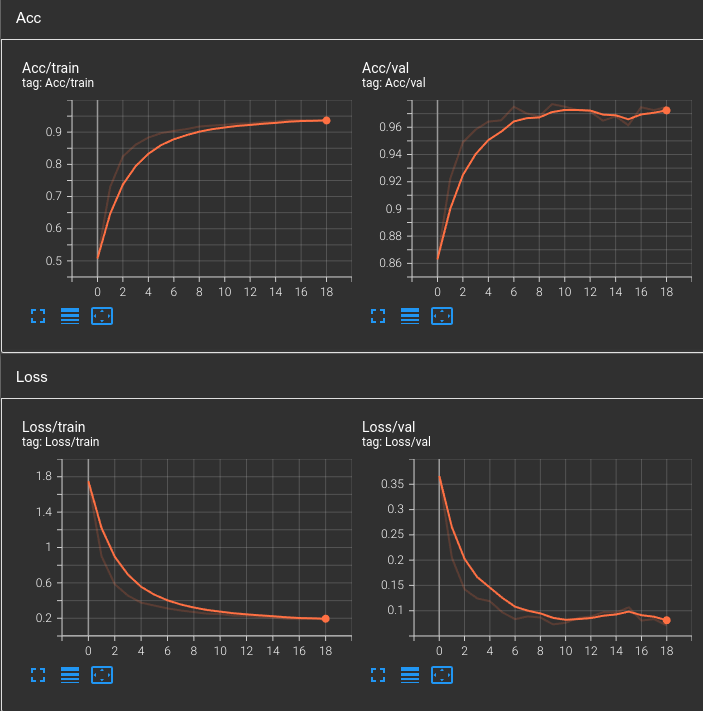
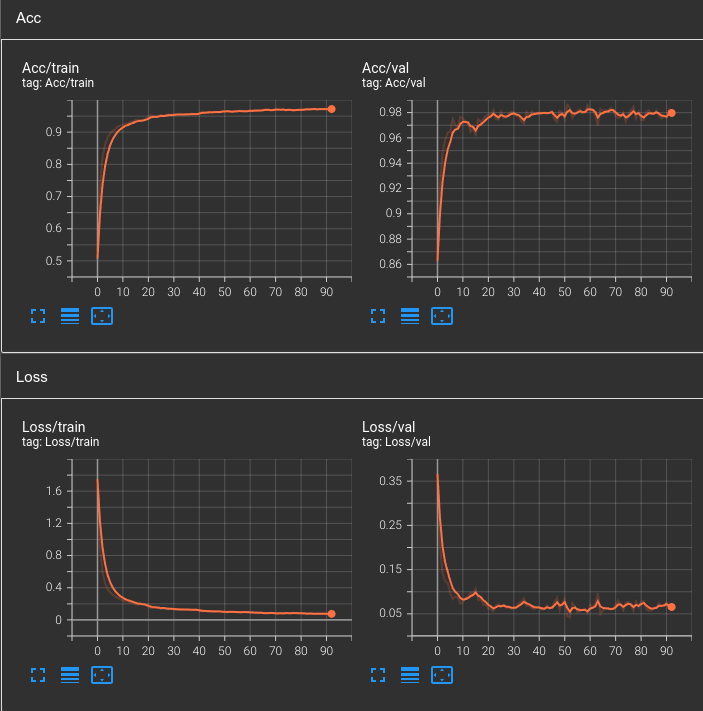
Added dataset images. updated omniglot results

diff --git a/README.md b/README.md
@@ -32,14 +32,17 @@ We used 3 main classification datasets:
   - total: 60,000
   - splits: 64 train, 16 val, 20 test (according to Vinyals et al)
   - Used in paper
+  - ![](docs/images/mini_imagenet_dataset.png)
 - **omniglot**: a collection of 1623 classes of handwritted characters. Each image is then rotated 3 more times by 90 degrees.
   - total: 32460 real, plus 4 rotations per image
   - splits: 1032 train, 172 val, 464 test (according to Vinyals et al)
   - Used in paper
+  - ![](docs/images/omniglot_dataset.jpg)
 - **flowers102**: a collection of 102 real-world flowers classes as rgb images.
   - total: 32460 real, plus 4 rotations per image
   - splits: 64 train, 16 val, 22 test (random seed for splits)
   - **NOT** Used in paper
+  - ![](docs/images/flowers102_dataset.png)
 </details>
 
 <details open>
@@ -76,7 +79,7 @@ All of these uses **epochs=200** and **iterations_per_epoch=100**.
 | Dataset       | Paper res<br><sup>(Acc) | Our res<br><sup>(Acc)                                                                                                  | Images<br><sup>(shape) | Prototype<br><sup>(shape) | Duration     |
 |---------------|-------------------------|------------------------------------------------------------------------------------------------------------------------|------------------------|---------------------------|--------------|
 | mini_imagenet | 68.20                   | [65.24](https://github.com/fabian57fabian/fewshot-learning-prototypical-networks/results/mini_imagenet/train_5way.png) | (84, 84, 3)            | (batch, 1600)             | cpu / 13h20m |
-| omniglot      | 98.80                   | [97.69](https://github.com/fabian57fabian/fewshot-learning-prototypical-networks/results/omniglot/train_5way.png)       | (28, 28, 1)            | (batch, 60)               | cpu / 2h35m  |
+| omniglot      | 98.80                   | [98.26](https://github.com/fabian57fabian/fewshot-learning-prototypical-networks/results/omniglot/train_5way.png)      | (28, 28, 1)            | (batch, 60)               | cpu / 2h35m  |
 | flowers102    | /                       | [73.81](https://github.com/fabian57fabian/fewshot-learning-prototypical-networks/results/flowers102/training_.png)     | (64, 64, 3)            | (batch, TODO)             | cpu / 5h48m  |
 
 </details>
